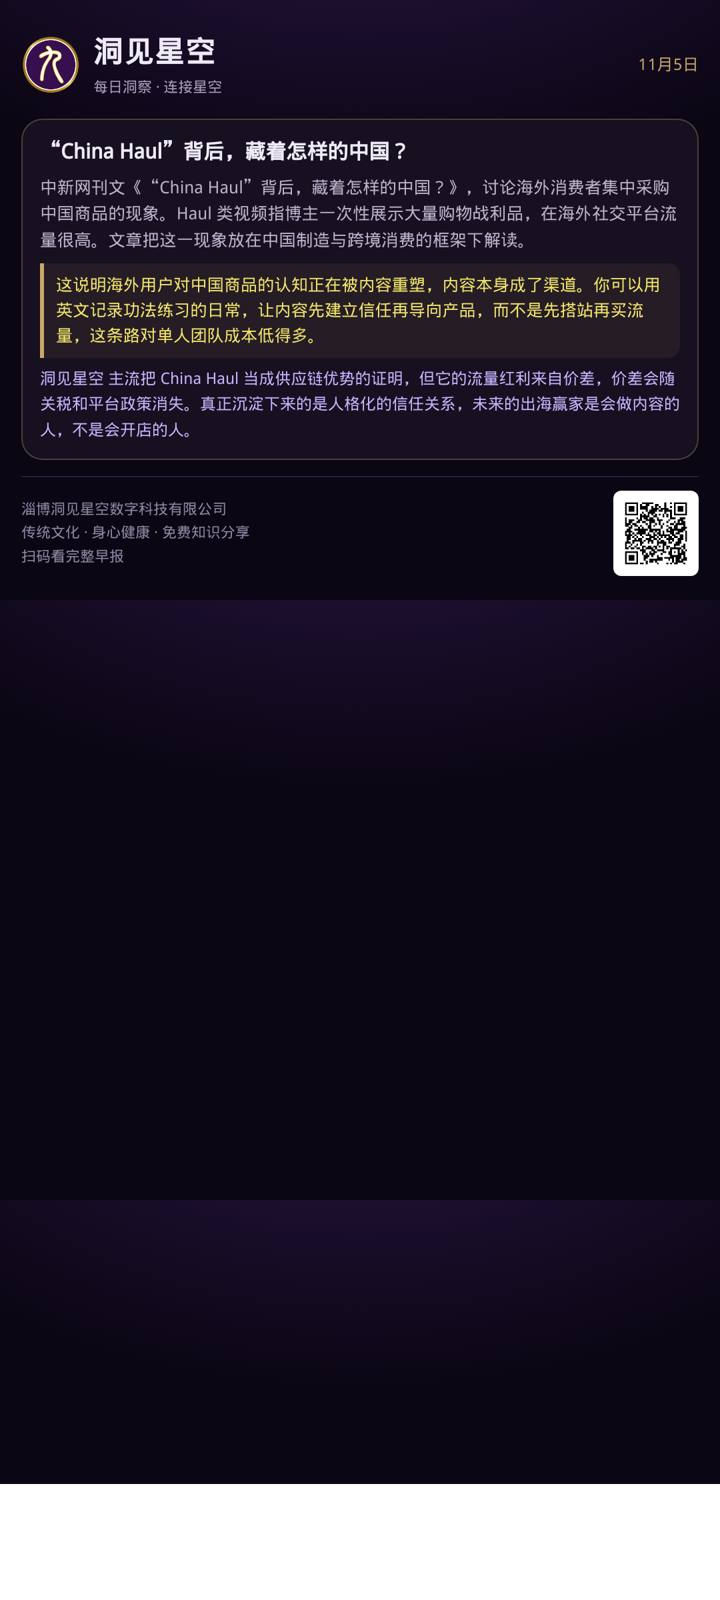
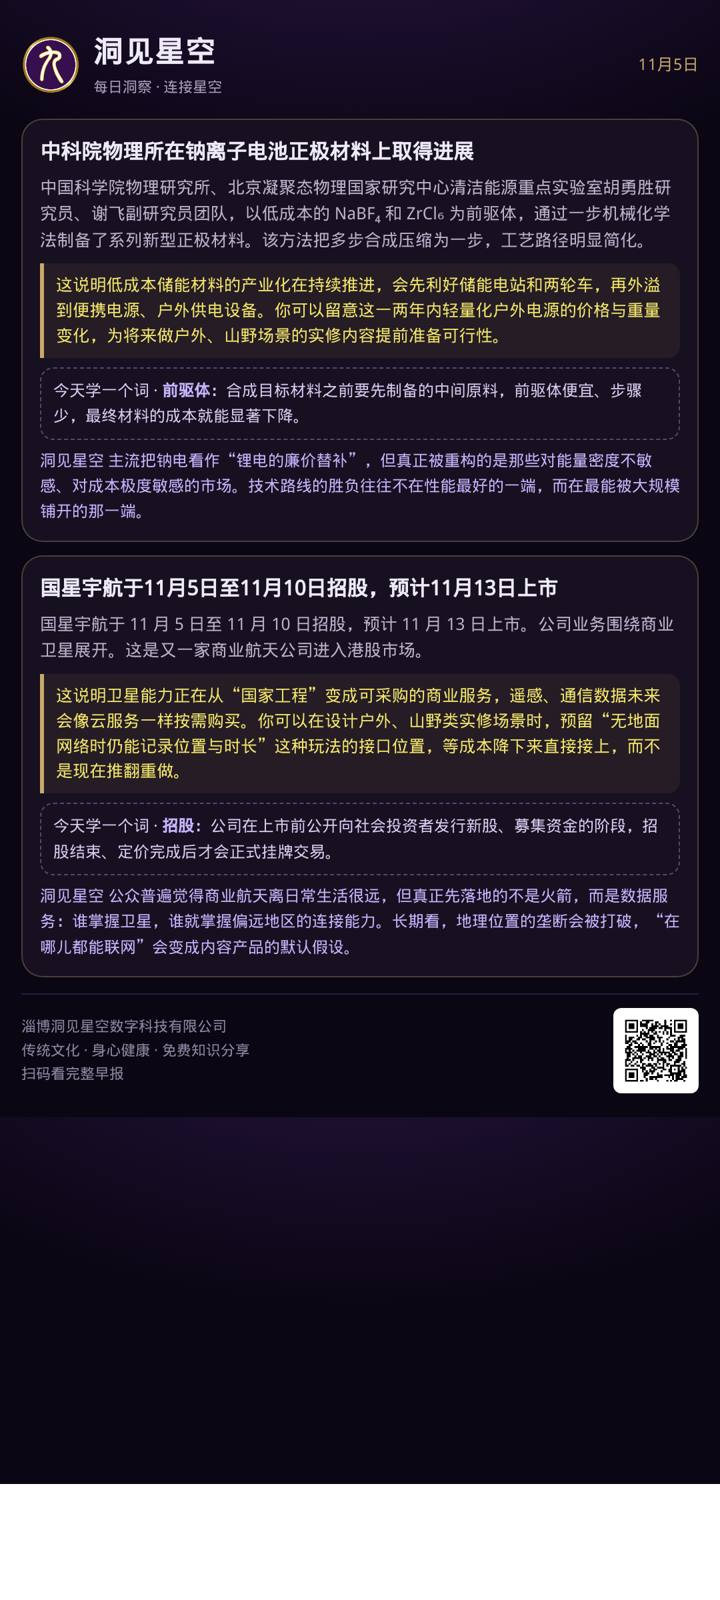
brief 2026-11-05

Changed region(s): [[0.0306, 0.0625, 0.9778, 0.6875], [0.825, 0.625, 0.9778, 0.6875], [0.4278, 0.6875, 0.55, 0.7188]]

diff --git a/2026-11-05.html b/2026-11-05.html
@@ -52,4 +52,4 @@ a{color:#b9a6ff;text-decoration:none}
 .teach{margin-top:10px;padding:10px 12px;border:1px dashed rgba(196,181,253,.35);border-radius:12px;font-size:13.5px;color:#d6ccf0}
 .teach b{color:var(--acc);font-weight:600}
 .foot{margin-top:44px;text-align:center;color:#5d5570;font-size:11px;letter-spacing:1.5px}
-</style></head><body><div class=grid></div><div class=wrap><div class=kicker>DONGJIAN · MORNING</div><div class=head><img class=logo src='logo.png' alt=logo><h1>洞见星空早报</h1></div><div class=sub>2026 年 11 月 5 日 · 星期四</div><h2>世界资讯 · 10</h2><div class=card><h3>OpenAI总裁称做好明年上市准备</h3><p>OpenAI 总裁公开表示公司已做好明年上市的准备。此前 OpenAI 长期依靠私募融资与战略投资支撑高强度投入。上市意味着其收入结构、亏损幅度与算力采购合同都要向公开市场披露。消息由新浪财经发出。</p><div class=why>这告诉你 AI 头部公司正从私募输血切换到公开市场定价，一旦上市，整个 AI 应用层的估值锚会被重新设定。你可以盯它披露的收入构成里订阅与 API 各占多少，判断资本市场认可的是工具型还是内容型产品，再决定自己下一块内容资产往哪边靠。</div><div class=teach>今天学一个词 · <b>资本开支（CapEx）</b>：公司买设备、建机房这类一次性大额投入，不直接算当期费用，而是分摊到以后几年。AI 公司烧钱主要就烧在这上面。</div><div class=insight><b>洞察</b> 主流把 OpenAI 上市当成 AI 泡沫的顶点信号，但更可能的分水岭是：上市之后 AI 从故事变成财报，被淘汰的不是没有技术的小团队，而是没有复购的产品。未来两年中文 AI 内容产品的定价会向订阅制收敛，一次性买断的高价课会越来越难卖。</div><div class=chips><a class='chip acc' href='https://finance.sina.com.cn/stock/usstock/c/2026-11-05/doc-inixryty5644886.shtml'>新浪财经</a></div></div><div class=card><h3>Sand.ai完成2亿美元A+轮融资，10个月累计3亿美元</h3><p>Sand.ai 宣布完成 2 亿美元 A+ 轮融资，这是公司 2026 年完成的第三轮融资。10 个月内累计融资额达到 3 亿美元，本轮融资后正式跻身独角兽行列。融资节奏在同赛道里属于极快的一档。</p><div class=why>这说明资本正在向少数 AI 团队高度集中，一年三轮、十个月三亿美元的节奏意味着行业进入烧钱换身位的阶段。个人创业者正面做模型不现实，但这些公司做不了的脏活——垂类数据整理、中文场景适配、内容审校——恰恰是最容易被外包或被收购的位置，你可以先接这类活建立关系。</div><div class=teach>今天学一个词 · <b>A+轮</b>：公司在 A 轮之后、B 轮之前加的一次融资，通常用来在估值上调前快速补钱，节奏比正常轮次快。</div><div class=insight><b>洞察</b> 主流认为融资额代表技术领先，但一年三轮更像是资本怕错过而不是看好，真实护城河在数据和工作流而不在参数。未来 12 个月会看到一批垂直行业的 AI 应用被大厂低价并购，独立做通用模型的小团队会加速出清。</div><div class=chips><a class='chip acc' href='https://wallstreetcn.com/livenews/3194682'>华尔街见闻</a></div></div><div class=card><h3>全球首款全尺寸超仿生机器人亮相，售价16.98万模样可定制</h3><p>全球首款全尺寸超仿生机器人公开亮相，售价 16.98 万元，模样可按客户需求定制。报道未披露具体交付时间与量产规模。16.98 万这个价位落在商用展陈与文旅采购的预算区间内，而不是工业产线的采购逻辑。</p><div class=why>这说明拟人机器人已经从展台样机走到明码标价，第一批买单的会是景区、展馆、康养机构而不是家庭。你可以关注机器人加传统文化展演这个组合，外观定制意味着外壳之下需要脚本、语音包和讲解词，这块内容供给目前几乎空白，是内容方最容易切进去的位置。</div><div class=teach>今天学一个词 · <b>超仿生</b>：指外形、表情、皮肤质感尽量接近真人，不只是关节能动，还包括面部微表情和体温这类细节。</div><div class=insight><b>洞察</b> 主流叙事是人形机器人进家庭，但短期内真正产生现金流的是 B 端的展陈与陪伴场景。定制外观这件事说明硬件会商品化，真正稀缺的是 IP 授权和内容包，未来这类公司的利润大头不在机器上。</div><div class=chips><a class='chip acc' href='https://finance.sina.com.cn/jjxw/2026-11-04/doc-inixqnsv7997130.shtml'>新浪科技</a></div></div><div class=card><h3>中科院物理所团队以低成本前驱体制备钠电材料</h3><p>中科院物理所、北京凝聚态物理国家研究中心清洁能源重点实验室胡勇胜研究员、谢飞副研究员团队，以低成本的 NaBF₄ 和 ZrCl₆ 为前驱体，通过一步机械化学法制备了系列材料。该路线强调前驱体易得与合成步骤少。这类研究通常瞄准储能和低速电动场景。</p><div class=why>这说明国内材料研发正在往低成本合成工艺上集中，而不是只比性能指标。硬科技科普的需求会同步上升，钠电、固态电池、储能这些词在中文短视频里已有稳定流量，且能接到品牌方的科普预算，比泛健康内容更容易谈商单。</div><div class=teach>今天学一个词 · <b>前驱体</b>：做材料时先合成出来的中间产物，后面的反应都以它为原料。前驱体便宜、稳定，最终产品成本才压得下来。</div><div class=insight><b>洞察</b> 主流把钠电说成锂电的替代者，它更可能是补充，真正的胜负手在低成本合成工艺而不是能量密度。未来两年被淘汰的会是只讲故事、没有工艺专利的材料公司。</div><div class=chips><a class='chip acc' href='https://wallstreetcn.com/livenews/3194670'>华尔街见闻</a></div></div><div class=card><h3>中国生物制药达成最高70亿美元对外授权，刷新国内BD纪录</h3><p>中国生物制药与勃林格殷格翰强化肿瘤领域战略合作，达成最高 70 亿美元的对外授权。这笔交易刷新了国内 BD 交易纪录，是本轮创新药出海里金额最高的一档。授权方保留部分区域权益。</p><div class=why>这说明中国创新药的出海方式已经从卖产品变成卖管线，交易撮合与跨境合规的人才变得稀缺。你可以留意医药 BD、海外授权谈判这类硬技能的知识付费需求，客单价和复购都远高于泛健康内容，而目前中文供给非常少。</div><div class=teach>今天学一个词 · <b>license-out（对外授权）</b>：把自己研发的药在海外市场的开发和销售权卖给外国药企，换首付款和后续里程碑分成。药还没上市就能先拿到钱。</div><div class=insight><b>洞察</b> 主流把 license-out 刷纪录当成产业升级的标志，但被买走的往往是早期管线，临床和商业化能力仍留在外资手里。未来两年会冒出一批专门做 BD 撮合的中介型公司，它们的价值现在被严重低估。</div><div class=chips><a class='chip acc' href='https://finance.sina.com.cn/tech/shenji/2026-11-05/doc-inixrumy8918859.shtml'>新浪科技</a></div></div><div class=card><h3>国星宇航11月5日起招股，预计11月13日上市</h3><p>国星宇航于 11 月 5 日至 11 月 10 日招股，预计 11 月 13 日上市。公司主营卫星研制与卫星数据服务，属于商业航天赛道。这是近期少有的商业航天公司赴港上市动作。</p><div class=why>这说明卫星数据正在从政府订单走向商业客户，遥感影像的民用接口会变得更便宜、更好调用。做地理、农业、文旅内容的人可以用卫星图做差异化素材，比如把某座山或某片湖的四季卫星影像做成内容，素材成本几乎为零。</div><div class=teach>今天学一个词 · <b>遥感</b>：卫星或飞机从上往下拍地面，得到影像和数据，可以用来数农作物面积、看河流变化、监测工地进度。</div><div class=insight><b>洞察</b> 主流把商业航天等同于可回收火箭和星链竞赛，但先上市的这类公司收入主要来自卫星应用和数据分销，不是发射。未来两年的竞争点在谁能把卫星数据卖给中小客户，而不是谁发射得多。</div><div class=chips><a class='chip acc' href='https://finance.sina.com.cn/stock/hkstock/ggipo/2026-11-05/doc-inixrunh9650279.shtml'>新浪财经</a></div></div><div class=card><h3>高盛：中期选举“蓝色海啸”将对人工智能监管产生重大影响</h3><p>高盛称美国中期选举出现蓝色海啸，将对人工智能监管产生重大影响。民主党在选举中的优势被视作监管趋严的前置信号。具体的立法节奏和监管范围目前仍未确定。</p><div class=why>这说明 AI 的合规成本正在从企业自选变成政治变量，一旦美国收紧，模型厂商会把合规压力通过接口条款传导给使用方。你可以把 AI 内容合规审查当成一个可做的方向，帮内容团队做发布前的合规体检，比做 AI 生成工具更容易收到钱。</div><div class=teach>今天学一个词 · <b>蓝色海啸（blue wave）</b>：美国政治术语，指民主党在同一场选举里大范围获胜。蓝色是民主党的代表色，海啸形容胜幅很大。</div><div class=insight><b>洞察</b> 主流认为更严的监管会压制 AI 估值，但历史上明确的规则反而利好头部、清退长尾。对个体创业者来说，监管不是成本，是别人进不来的门槛。</div><div class=chips><a class='chip acc' href='https://finance.sina.com.cn/stock/usstock/c/2026-11-05/doc-inixryuh6202664.shtml'>新浪财经</a></div></div><div class=card><h3>Arm季度营收展望符合预期，数据中心业务抵御手机市场低迷</h3><p>Arm 的季度营收展望符合市场预期，数据中心业务帮助它抵御了智能手机市场的低迷。公司在财报沟通中把数据中心列为增长主力。智能手机相关授权收入仍然承压。</p><div class=why>这说明算力需求的重心已经从手机转向机房，推理侧的真实需求在增长。你可以据此判断内容产品该往需要持续调用的形态走，比如个性化音频、语音陪练，而不是一次性交付的录播课，因为只有前者才有复购。</div><div class=teach>今天学一个词 · <b>推理（inference）</b>：模型训练好之后，每次回答问题、生成内容时运行的那一步。用户越多，推理消耗越大，成本主要看这里。</div><div class=insight><b>洞察</b> 主流把 Arm 当消费电子公司，但它的估值逻辑正在变成 AI 基础设施。未来三年推理芯片的竞争会比训练芯片更激烈，因为落地场景大多在端侧和边缘侧。</div><div class=chips><a class='chip acc' href='https://finance.sina.com.cn/stock/usstock/c/2026-11-05/doc-inixrqea8945717.shtml'>新浪科技</a></div></div><div class=card><h3>国风国潮服饰海外热销，外国消费者专程来中国抢货</h3><p>中新网报道，国风国潮服饰在海外热销，有外国消费者专程来中国抢货。报道称国风国潮正在圈粉全球，并被列为近期外贸热点之一。热销品类集中在带有传统纹样与形制的服装。</p><div class=why>这说明中国传统美学在海外已经形成真实购买力，不只是文化猎奇。你的功法内容可以走同一条路径，先用短视频和图文在海外平台积累观看，把练习音频和动作讲解做成可下载的数字产品，先有成交再谈规模化。</div><div class=teach>今天学一个词 · <b>国潮</b>：把中国传统元素，比如纹样、形制、色彩，用在现代商品设计上形成的消费风潮，近年在服饰、美妆、茶饮里最集中。</div><div class=insight><b>洞察</b> 主流认为文化出海靠官方叙事和大项目，但实际成交靠的是单品和审美。未来三年会跑出几个纯靠海外收入的中国传统品类品牌，规模都不大，但利润率和客户忠诚度远高于国内同类。</div><div class=chips><a class='chip acc' href='https://www.chinanews.com.cn/cj/2026/11-05/10726436.shtml'>中新网财经</a></div></div><div class=card><h3>“China Haul”背后，藏着怎样的中国？</h3><p>中新网刊文《“China Haul”背后，藏着怎样的中国？》，讨论海外消费者集中采购中国商品的现象。Haul 类视频指博主一次性展示大量购物战利品，在海外社交平台流量很高。文章把这一现象放在中国制造与跨境消费的框架下解读。</p><div class=why>这说明海外用户对中国商品的认知正在被内容重塑，内容本身成了渠道。你可以用英文记录功法练习的日常，让内容先建立信任再导向产品，而不是先搭站再买流量，这条路对单人团队成本低得多。</div><div class=teach>今天学一个词 · <b>Haul 视频</b>：博主把一次采购的商品全部摆出来逐件展示、试用的视频形式。因为真实、信息密度高，在海外平台转化率很高。</div><div class=insight><b>洞察</b> 主流把 China Haul 当成供应链优势的证明，但它的流量红利来自价差，价差会随关税和平台政策消失。真正沉淀下来的是人格化的信任关系，未来的出海赢家是会做内容的人，不是会开店的人。</div><div class=chips><a class='chip acc' href='https://www.chinanews.com.cn/cj/2026/11-05/10726442.shtml'>中新网财经</a></div></div><h2>科技 · 10</h2><div class=card><h3>天数智芯天垓300真机实测：Token成本直降40%</h3><p>天数智芯天垓 300 的真机实测结果显示，性能已赶超国际主流 GPU。在超节点架构下，有效 Token 成本直降 40%。这一数据来自公开的实测披露。</p><div class=why>这说明国产算力在推理侧的性价比已经跨过临界点，AI 应用的单次调用代价会继续下探。你可以观察这波成本下降会催生哪些高频交互加垂类内容的产品，优先学它们的交互设计，而不是自己从零构思产品形态。</div><div class=chips><a class='chip acc' href='https://finance.sina.com.cn/tech/it/2026-11-04/doc-inixqsyn9272244.shtml'>新浪科技</a></div></div><div class=card><h3>灵光2.0上线一周托管超116万项事务，用户突破2000万</h3><p>灵光 2.0 上线一周，托管事务超过 116 万项，用户规模突破 2000 万。托管类功能指用户把订票、提醒、比价这些具体事务交给 Agent 执行。产品增长主要来自事务型场景而非聊天。</p><div class=why>这说明用户愿意把办事交给 AI，而不只是聊天，付费意愿也集中在结果上。值得关注的是事务托管这个品类的收费结构，按次还是包月，哪一种在中文用户里跑得通，会直接决定一批小团队的产品设计。</div><div class=chips><a class='chip acc' href='https://finance.sina.com.cn/tech/shenji/2026-11-05/doc-inixryue9568010.shtml'>新浪科技</a></div></div><div class=card><h3>闲鱼CEO：Agent创造新模式，150万用户获得持续稳定收入</h3><p>闲鱼 CEO 谌伟业表示，Agent 为平台创造了新的交易模式和体验，已有 150 万用户通过平台获得持续稳定收入。闲鱼是二手商品与技能服务的撮合平台。Agent 主要承担定价、客服与上架这类重复动作。</p><div class=why>这说明一个人加一个 Agent 已经可以撑起一门小生意。你可以研究闲鱼上技能服务的供给形态，比如陪练、教学、咨询，看功法教学能不能做成被平台撮合的服务，而不是只靠自有渠道卖。</div><div class=chips><a class='chip acc' href='https://finance.sina.com.cn/tech/it/2026-11-04/doc-inixqsyv0040255.shtml'>新浪科技</a></div></div><div class=card><h3>360发布元认知模型，让AI从能生成走向可靠执行</h3><p>360 在乌镇峰会发布元认知模型，主打让 AI 从能生成走向可靠执行。所谓元认知，指模型对自身的推理过程进行监控和校正。发布会把可靠性而非生成质量作为主要卖点。</p><div class=why>这说明行业竞争的焦点正在从生成质量转向执行可靠性，用户不为生成付费，为结果付费。你可以据此判断内容产品的卖点该落在完成上，比如一套练习有没有做完、动作有没有到位，而不是内容时长和数量。</div><div class=chips><a class='chip acc' href='https://finance.sina.com.cn/tech/it/2026-11-04/doc-inixqnss6108904.shtml'>新浪科技</a></div></div><div class=card><h3>国行苹果AI首批接入得物，11月4日开放测试</h3><p>国行苹果 AI 的首批接入方中出现得物，于 11 月 4 日开放测试。首批合作场景集中在电商与消费决策类应用。国行版本的能力开放节奏明显慢于海外。</p><div class=why>这说明苹果 AI 的落地路径是接入具体 App 而不是一个通用入口，谁先进名单谁拿系统级曝光。你可以持续盯这份接入名单的变化，一旦向内容与健康类 App 开放，早期接入的获客成本会远低于买量。</div><div class=chips><a class='chip acc' href='https://finance.sina.com.cn/tech/it/2026-11-04/doc-inixqnsq9346336.shtml'>新浪科技</a></div></div><div class=card><h3>Meta启动欧元债券首次发行，此前美元债已筹150亿美元</h3><p>Meta 启动欧元债券的首次发行，此前已通过美元债筹集 150 亿美元。连续的大规模举债动作集中在 AI 相关的基础设施投入周期里。科技巨头通过债市为算力建设融资已成常态。</p><div class=why>这说明科技巨头的 AI 投入已经开始加杠杆，行业进入用债务换算力的阶段。这个周期里最先被挤压的是靠买量增长的公司，内容型产品的获客波动相对小，你可以据此判断自己该不该在这个时点大规模投流量。</div><div class=chips><a class='chip acc' href='https://finance.sina.com.cn/stock/usstock/c/2026-11-04/doc-inixqhks9393709.shtml'>新浪科技</a></div></div><div class=card><h3>字节新规限制员工使用外部AI，知情人士回应</h3><p>有消息称字节跳动出台新规，限制员工使用外部 AI 工具，知情人士对此作出回应。大厂对内部数据外流的担忧是这类规定的常见动因。此前多家头部公司已采取类似限制。</p><div class=why>这说明大厂的核心顾虑是数据与合规，需求会转向可私有化、可审计的 AI 工具。对个人来说，帮中小企业做 AI 使用规范和落地培训是当下就能接到的活，比做通用 AI 工具更容易收到第一笔钱。</div><div class=chips><a class='chip acc' href='https://finance.sina.com.cn/chanjing/gsnews/2026-11-04/doc-inixqxhk9235629.shtml'>新浪科技</a></div></div><div class=card><h3>QuestMobile：红果免费短剧9月月活4.3亿，同比增长81.8%</h3><p>QuestMobile 报告显示，9 月红果免费短剧的月活跃用户规模达到 4.3 亿，同比增长 81.8%。免费短剧以广告变现为主，单集时长通常在几分钟以内，靠连续钩子留住用户。</p><div class=why>这说明中文互联网最大的增量流量仍在免费、高频、强钩子的内容形态上。你可以研究它的单集结构，前几秒给什么、什么时候转折，把这套节奏用到功法内容的短视频拆条上，而不是只做长音频。</div><div class=chips><a class='chip acc' href='https://finance.sina.com.cn/tech/it/2026-11-04/doc-inixqnsv7985057.shtml'>新浪科技</a></div></div><div class=card><h3>华为子品牌“星芒”曝光：英文名OSTA，首款O1 Pro定位旗舰</h3><p>华为推出子品牌星芒，英文名为 OSTA，首款机型 O1 Pro 定位旗舰，采用阔直板形态。这是华为在主品牌之外新增的独立品牌线。新品牌通常承担细分人群和价格带的试探任务。</p><div class=why>这说明手机厂商仍在拆子品牌细分人群，新品牌冷启动期对内容合作方的报价通常更宽松。你可以留意这类新品牌的早期内容合作窗口，用比成熟平台低得多的成本拿到曝光。</div><div class=chips><a class='chip acc' href='https://finance.sina.com.cn/tech/roll/2026-11-04/doc-inixqhkx8071732.shtml'>新浪科技</a></div></div><div class=card><h3>李斌：智能驾驶的意义是解放精力减少事故，而非让司机丢工作</h3><p>蔚来李斌表示，智能驾驶最大的意义不应是让出租车、网约车司机丢掉工作，而是解放司机精力、减少交通事故。这一表态出现在自动驾驶商业化加速推进的背景下。同类表述在行业内正变得越来越常见。</p><div class=why>这说明 AI 产品的对外叙事正在从替代人转向增强人，因为替代叙事会直接招来监管和舆论阻力。这套框架做内容的人可以直接借用，讲增强身体能力而不是暗示治疗效果，既合规也更容易被接受。</div><div class=chips><a class='chip acc' href='https://finance.sina.com.cn/tech/shenji/2026-11-05/doc-inixrunk6238467.shtml'>新浪科技</a></div></div><h2>开源项目 · 10</h2><div class=card><div class=repo><div><div class=n><a href='https://github.com/Renhuai123/ziwei-doushu'>Renhuai123/ziwei-doushu</a></div><div class=d>紫微斗数开源排盘引擎，基于《天纪》体系，含完整排盘算法、四化系统、格局知识库和古籍原文数据。</div></div><div class=s>★ 15818</div></div><div class=repo><div><div class=n><a href='https://github.com/SylarLong/iztro'>SylarLong/iztro</a></div><div class=d>轻量级紫微斗数排盘库，提供生成星盘的工具接口，可直接嵌入网页或小程序。</div></div><div class=s>★ 4346</div></div><div class=repo><div><div class=n><a href='https://github.com/jangviktor-web/nihaixia'>jangviktor-web/nihaixia</a></div><div class=d>以倪海厦教学资料为基础的中医 Agent 技能，蒸馏伤寒论、金匮要略、黄帝内经、神农本草经、针灸篇，含六经辨证、八纲辨证与人纪医案思维。</div></div><div class=s>★ 3995</div></div><div class=repo><div><div class=n><a href='https://github.com/jinchenma94/bazi-skill'>jinchenma94/bazi-skill</a></div><div class=d>四柱八字命理分析的 Python 技能实现，可直接被 Agent 平台调用。</div></div><div class=s>★ 3800</div></div><div class=repo><div><div class=n><a href='https://github.com/DestinyLinker/MingLi-Bench'>DestinyLinker/MingLi-Bench</a></div><div class=d>评估大模型在中国传统命理（八字、紫微）任务上表现的基准数据集。</div></div><div class=s>★ 2552</div></div><div class=repo><div><div class=n><a href='https://github.com/6tail/lunar-javascript'>6tail/lunar-javascript</a></div><div class=d>日历库，支持公历、农历、佛历、道历，以及节气、节日、干支、生肖、每日宜忌等。</div></div><div class=s>★ 1736</div></div><div class=repo><div><div class=n><a href='https://github.com/FANzR-arch/Numerologist_skills'>FANzR-arch/Numerologist_skills</a></div><div class=d>一个针对中国术数领域给大模型去幻觉的工程框架，用约束与校验防止模型乱编。</div></div><div class=s>★ 1567</div></div></div><div class=card><div class=repo><div class=n style='color:#c9a86a'>热门 · 不限分类</div></div><div class=repo><div><div class=n><a href='https://github.com/cirosantilli/x86-bare-metal-examples'>cirosantilli/x86-bare-metal-examples</a></div><div class=d>几十个最小可运行的 x86 裸机操作系统示例，用于学习底层系统编程，全部经过实测。</div></div><div class=s>★ 5434</div></div><div class=repo><div><div class=n><a href='https://github.com/gege-circle/.github'>gege-circle/.github</a></div><div class=d>一个以动漫、游戏、科技、人文、生活为话题的社区仓库，用于圈子成员交流。</div></div><div class=s>★ 2079</div></div><div class=repo><div><div class=n><a href='https://github.com/OCNYang/QBox'>OCNYang/QBox</a></div><div class=d>基于 RxJava、Retrofit、Okhttp、Glide 的练手 App，把新闻、笑话等多个小模块聚合在一个入口里。</div></div><div class=s>★ 1383</div></div></div><div class=foot>洞见星空 · 仅供学习交流，不构成投资建议</div></div></body></html>
+</style></head><body><div class=grid></div><div class=wrap><div class=kicker>DONGJIAN · MORNING</div><div class=head><img class=logo src='logo.png' alt=logo><h1>洞见星空早报</h1></div><div class=sub>2026 年 11 月 5 日 · 星期四</div><h2>世界资讯 · 10</h2><div class=card><h3>OpenAI总裁称做好明年上市准备</h3><p>据新浪财经报道，OpenAI 总裁公开表示公司已经为明年上市做好准备。这是 OpenAI 高层首次就上市时间表给出相对明确的表态。此前 OpenAI 长期以非营利母体加有限营利子公司的架构运作，估值主要靠一级市场融资推高。消息出炉当日，市场对 AI 板块的定价讨论明显升温。</p><div class=why>大模型头部公司进入上市节奏，说明这一轮竞争已经从“谁的模型更强”转向“谁能把算力变成可持续的季度收入”，企业级合约会成为争夺重点。对单人创业者来说，面向个人的轻量工具会越来越标准化、越来越容易被替换，你该押注的是模型替代不了的部分：具体功法的纠错、师承来源和学员关系。</div><div class=teach>今天学一个词 · <b>IPO</b>：公司第一次把股票卖给公众，之后要在交易所挂牌、按季度公开财务数据。上市意味着它要对股东负责，而不只是对创始人和投资机构负责。</div><div class=insight><b>洞察</b> 主流叙事把头部 AI 公司上市当成泡沫见顶的信号，但更可能的长期含义是：AI 行业的定价权从“讲故事的一级市场”转移到“看财报的二级市场”，产品会更快涨价、更快收紧免费额度、更偏向能付得起钱的企业客户。个体创业者要习惯“工具条款半年一变”的常态。</div><div class=chips><a class='chip acc' href='https://finance.sina.com.cn/stock/usstock/c/2026-11-05/doc-inixryty5644886.shtml'>新浪财经</a></div></div><div class=card><h3>高盛称美国中期选举“蓝色海啸”将对人工智能监管产生重大影响</h3><p>高盛发布观点称，美国中期选举中出现的“蓝色海啸”将对人工智能监管走向产生重大影响。所谓蓝色海啸，指民主党在选举中获得压倒性优势。高盛认为立法与监管口径的变化会直接改变 AI 公司的合规成本与业务边界。市场正在重新评估监管风险在 AI 板块中的权重。</p><div class=why>美国监管口径趋严，会同时抬高两件事的价值：一是开源模型与本地部署方案，二是“可审计、可解释”的 AI 产品。你可以优先选能在本地或国内云上跑的工具链，把关键流程留一份不依赖单一海外服务的备份路径。</div><div class=teach>今天学一个词 · <b>蓝色海啸</b>：美国政治里蓝色代表民主党、红色代表共和党。“蓝色海啸”是媒体说法，指民主党在一场选举里赢得幅度大到像海啸一样。</div><div class=insight><b>洞察</b> 多数人默认“监管等于利空 AI”，但历史上强监管往往抬高合规门槛、利好大厂、挤出小玩家，同时把开源生态推到台前。真正的长期变化不是 AI 变慢，而是 AI 的权力结构更集中、合规本身变成一门生意。</div><div class=chips><a class='chip acc' href='https://finance.sina.com.cn/stock/usstock/c/2026-11-05/doc-inixryuh6202664.shtml'>新浪财经</a></div></div><div class=card><h3>全球首款全尺寸超仿生机器人亮相：售价16.98万，模样可定制</h3><p>新浪科技报道，全球首款全尺寸超仿生机器人亮相，售价 16.98 万元，外观模样可以定制。产品主打拟人外形与个性化形象，而非工业作业能力。这一价位把它放在商用展陈和高端陪伴的市场区间。</p><div class=why>这说明“形象、动作、语音脚本”的可定制内容正在成为机器人产品的卖点，而这类内容目前极度稀缺。你可以把自己的功法动作拆成标准的“动作包、讲解脚本、口令音频”，做成可授权给硬件厂商的内容模块，这是一条与录课卖课完全不同的收入路径。</div><div class=teach>今天学一个词 · <b>超仿生</b>：指外观、皮肤质感、面部表情对真人的模仿程度非常高，站远了看几乎分不出真假，和“能干活”是两码事。</div><div class=insight><b>洞察</b> 主流说法是“人形机器人即将走进家庭”，但 16.98 万的定价和展示型定位说明，短期内它更像展陈道具和 IP 载体。真正先起来的不是机器人干活，而是机器人“扮演谁”，也就是内容授权与形象授权。</div><div class=chips><a class='chip acc' href='https://finance.sina.com.cn/jjxw/2026-11-04/doc-inixqnsv7997130.shtml'>新浪科技</a></div></div><div class=card><h3>河北出台一揽子措施支持OPC创新发展</h3><p>中新网 11 月 5 日报道，河北出台一揽子措施支持 OPC 创新发展。OPC 即“一人公司”，指由一个自然人出资设立的公司形态。这是地方层面对单人创业主体给出的专项政策支持信号。</p><div class=why>这说明单人公司正在被当成一种正式的市场主体来对待，而不是过渡形态，围绕它的注册、财税、法务服务会形成一条新供应链。你可以去核对淄博本地以及河北这类先行地区对一人公司的具体扶持条款，看有没有内容产业、文创方向的申报窗口，这属于一次性查证、长期受益的动作。</div><div class=teach>今天学一个词 · <b>OPC（一人公司）</b>：One Person Company 的缩写，指股东只有一个自然人的公司。它和个体户不同，是有限责任公司，出了事一般只以出资额为限承担责任。</div><div class=insight><b>洞察</b> 主流的创业叙事仍然默认“招人、融资、做大”，但政策口径已经把一人公司纳入扶持对象，意味着未来几年会出现一批专门服务个体的基础设施：代记账、合规模板、AI 法务。真正被重构的不是创业门槛，而是“公司”这个概念本身。</div><div class=chips><a class='chip acc' href='https://www.chinanews.com.cn/cj/2026/11-05/10726400.shtml'>中新网财经</a></div></div><div class=card><h3>达成最高70亿美元对外授权，中生制药刷新BD交易记录</h3><p>新浪科技报道，中国生物制药达成最高 70 亿美元的对外授权交易，刷新国内 BD 交易纪录。交易对手方为勃林格殷格翰，双方在肿瘤领域强化战略合作。同日中国生物制药港股早盘涨超 5%。</p><div class=why>这说明“把一套方法或配方打包授权给更有渠道的一方”这条路在中国已经跑通，而且能卖出远高于零售的价格。传统文化领域同样可以试：把自己的功法体系、纠偏标准、教学大纲整理成可授权的 IP 包，谈给健身房、康养机构、内容平台，而不是只靠自己一节一节课去卖。</div><div class=teach>今天学一个词 · <b>BD / License-out</b>：BD 是商务拓展，License-out 指把自己产品的海外或特定权益授权给别人开发销售，收一笔首付款，之后按进展再收里程碑款和分成。</div><div class=insight><b>洞察</b> 媒体喜欢用 70 亿美元这样的标题数字，但对外授权通常是“首付款加里程碑付款”的结构，真正落袋的钱和标题差一个数量级。长期看，中国资产的定价权正在从“自己卖产品”转向“把权益卖给全球渠道”，这个逻辑对所有内容型 IP 都成立。</div><div class=chips><a class='chip acc' href='https://finance.sina.com.cn/tech/shenji/2026-11-05/doc-inixrumy8918859.shtml'>新浪科技</a></div></div><div class=card><h3>圈粉全球！国风国潮服饰海外热销，老外专程来抢货</h3><p>中新网报道，国风国潮服饰在海外热销，有外国消费者专程来中国抢货。报道把这一现象与近期海外的“China Haul”热潮并列观察。国潮服饰正在成为出口中的新增长品类之一。</p><div class=why>这说明海外对中国传统美学的需求，集中在“可穿戴、可拍照、可传播”的形态上，而不是长篇讲解。你可以顺势把功法内容往“视觉化、无语言门槛”的方向改：一个动作、一身衣服、一个场景，十几秒就能看懂，先解决传播再谈付费。</div><div class=teach>今天学一个词 · <b>国潮</b>：把中国传统纹样、形制、色彩做成现代商品和设计的风潮，核心卖点不是“古老”，而是“古老元素加现代使用场景”。</div><div class=insight><b>洞察</b> 大家习惯认为文化出海要靠大制作、靠官方渠道，但真正先跑出去的是衣服、饰品、器物这些可以被穿在身上、拍进照片的符号。符号的生命周期很短，靠单品爆红不可持续，能长期立住的是持续输出内容的那个人，而不是那一件衣服。</div><div class=chips><a class='chip acc' href='https://www.chinanews.com.cn/cj/2026/11-05/10726436.shtml'>中新网财经</a></div></div><div class=card><h3>“China Haul”背后，藏着怎样的中国？</h3><p>中新网刊文《“China Haul”背后，藏着怎样的中国？》，讨论海外消费者大量采购中国商品并在社交平台晒单的现象。文章认为这股热潮背后不只是价格，还有中国供应链与生活方式内容的同步输出。海外年轻人正把中国商品当成一种生活方式的符号。</p><div class=why>这说明海外平台对“中国人真实日常生活”的内容有持续需求，而且是生活流而不是教学流。你可以把练功、节气起居、饮食这类日常拍成系列短片，用生活记录的方式触达海外受众，比一上来就讲功法原理更容易被看懂和转发。</div><div class=teach>今天学一个词 · <b>Haul</b>：海外社交平台上的“扫货、开箱”视频类型，博主展示自己一次买了哪些东西、花了多少钱、值不值，常见于美妆和服饰。</div><div class=insight><b>洞察</b> 主流解读把 China Haul 归因于“性价比”，但性价比买不出狂热。真正被消费的是一整套生活想象，这也意味着它的天花板取决于内容能否持续供给。谁能在海外稳定输出“中国人怎么过日子”，谁就掌握了这个符号的解释权。</div><div class=chips><a class='chip acc' href='https://www.chinanews.com.cn/cj/2026/11-05/10726442.shtml'>中新网财经</a></div></div><div class=card><h3>QuestMobile报告：9月红果免费短剧月活跃用户规模达4.3亿，同比增长81.8%</h3><p>QuestMobile 报告显示，9 月红果免费短剧月活跃用户规模达到 4.3 亿，同比增长 81.8%。免费短剧成为过去一年增长最快的内容形态之一。同一份报告显示，腾讯以 12.8 亿用户蝉联中国互联网第一，绿泡泡月活破 1.5 亿。</p><div class=why>这说明用户对“一分钟内给出情绪或结果”的耐受度已经成为默认标准，超过三分钟还没有钩子的内容会被直接划走。你可以把 34 天挑战的每一天做成 60 秒竖屏单元：一个动作加一句话，用短剧的节奏承载功法内容，而不是依赖长音频。</div><div class=teach>今天学一个词 · <b>MAU（月活跃用户）</b>：一个月内打开过这个产品至少一次的用户数，用来衡量真实有多少人在用，比累计注册用户更能说明问题。</div><div class=insight><b>洞察</b> 很多人把短剧当成下沉娱乐，但 4.3 亿意味着它已经重塑了全年龄段的注意力节奏。长期看，所有内容都要先通过“三秒留人”这一关，教育类、修行类内容也不例外。真正的稀缺不是深度，而是能把深度压缩进短时长的能力。</div><div class=chips><a class='chip acc' href='https://finance.sina.com.cn/tech/it/2026-11-04/doc-inixqnsv7985057.shtml'>新浪科技</a></div></div><div class=card><h3>中科院物理所在钠离子电池正极材料上取得进展</h3><p>中国科学院物理研究所、北京凝聚态物理国家研究中心清洁能源重点实验室胡勇胜研究员、谢飞副研究员团队，以低成本的 NaBF₄ 和 ZrCl₆ 为前驱体，通过一步机械化学法制备了系列新型正极材料。该方法把多步合成压缩为一步，工艺路径明显简化。</p><div class=why>这说明低成本储能材料的产业化在持续推进，会先利好储能电站和两轮车，再外溢到便携电源、户外供电设备。你可以留意这一两年内轻量化户外电源的价格与重量变化，为将来做户外、山野场景的实修内容提前准备可行性。</div><div class=teach>今天学一个词 · <b>前驱体</b>：合成目标材料之前要先制备的中间原料，前驱体便宜、步骤少，最终材料的成本就能显著下降。</div><div class=insight><b>洞察</b> 主流把钠电看作“锂电的廉价替补”，但真正被重构的是那些对能量密度不敏感、对成本极度敏感的市场。技术路线的胜负往往不在性能最好的一端，而在最能被大规模铺开的那一端。</div><div class=chips><a class='chip acc' href='https://wallstreetcn.com/livenews/3194670'>华尔街见闻</a></div></div><div class=card><h3>国星宇航于11月5日至11月10日招股，预计11月13日上市</h3><p>国星宇航于 11 月 5 日至 11 月 10 日招股，预计 11 月 13 日上市。公司业务围绕商业卫星展开。这是又一家商业航天公司进入港股市场。</p><div class=why>这说明卫星能力正在从“国家工程”变成可采购的商业服务，遥感、通信数据未来会像云服务一样按需购买。你可以在设计户外、山野类实修场景时，预留“无地面网络时仍能记录位置与时长”这种玩法的接口位置，等成本降下来直接接上，而不是现在推翻重做。</div><div class=teach>今天学一个词 · <b>招股</b>：公司在上市前公开向社会投资者发行新股、募集资金的阶段，招股结束、定价完成后才会正式挂牌交易。</div><div class=insight><b>洞察</b> 公众普遍觉得商业航天离日常生活很远，但真正先落地的不是火箭，而是数据服务：谁掌握卫星，谁就掌握偏远地区的连接能力。长期看，地理位置的垄断会被打破，“在哪儿都能联网”会变成内容产品的默认假设。</div><div class=chips><a class='chip acc' href='https://finance.sina.com.cn/stock/hkstock/ggipo/2026-11-05/doc-inixrunh9650279.shtml'>新浪财经</a></div></div><h2>科技 · 9</h2><div class=card><h3>灵光2.0上线一周托管超116万项事务，用户突破2000万</h3><p>新浪科技报道，灵光 2.0 上线一周托管事务超过 116 万项，用户突破 2000 万。所谓“托管事务”，指用户把原本要自己动手做的事交给 AI 代理去执行。一周之内就沉淀出百万量级的真实执行数据。</p><div class=why>这说明通用型 AI 助手已经在大量承担“提醒、记录、统计、整理”这类事务性工作，这类功能会迅速变成免费标配。你要把力气放在 AI 判断不了的地方：动作做得对不对、身体反馈是否正常、什么时候该减量，这些才是需要专业经验的部分。</div><div class=teach>今天学一个词 · <b>托管事务</b>：不只是让 AI 给建议，而是把整件事交给它去执行，比如自动改期、自动填表、自动跟进，做完再给你结果。</div><div class=insight><b>洞察</b> 大多数人把 Agent 理解为“更聪明的聊天框”，但托管事务的量级说明竞争点已经变成“能不能可靠地把事做完”。可靠性的背后是权限、可回溯和出错兜底，这三样在未来一年会成为 AI 产品真正的分水岭。</div><div class=chips><a class='chip acc' href='https://finance.sina.com.cn/tech/shenji/2026-11-05/doc-inixryue9568010.shtml'>新浪科技</a></div></div><div class=card><h3>天数智芯天垓300真机实测：性能赶超国际主流GPU，超节点有效Token成本直降40%</h3><p>新浪科技报道，天数智芯天垓 300 完成真机实测，性能赶超国际主流 GPU，采用超节点方案后有效 Token 成本直降 40%。这是国产算力在推理侧的一次公开对比测试。测试重点是集群整体的有效吞吐，而不只是单卡跑分。</p><div class=why>这说明推理算力正在快速变便宜，实时动作识别、姿态比对这类重计算能力会在一年内进入可商用区间。你现在最该做的是攒数据：把标准动作的正面、侧面、常见错误姿势拍成结构化素材，等能力便宜了直接训练，而不是等工具成熟了再补素材。</div><div class=teach>今天学一个词 · <b>超节点</b>：把成百上千张加速卡用高速网络连成一台“超级电脑”来用，减少卡与卡之间的等待，整体效率比单卡堆叠高很多。</div><div class=insight><b>洞察</b> 主流把国产芯片的叙事锁定在“替代”，但超节点这类集群思路说明，追赶路径可能不是单卡追平，而是用系统架构换单点差距。如果这条路走通，算力的竞争会从“谁的芯片强”变成“谁的网络和调度强”。</div><div class=chips><a class='chip acc' href='https://finance.sina.com.cn/tech/it/2026-11-04/doc-inixqsyn9272244.shtml'>新浪科技</a></div></div><div class=card><h3>闲鱼CEO谌伟业：Agent创造新模式新体验，150万用户获得持续稳定收入</h3><p>闲鱼 CEO 谌伟业表示，Agent 创造了新的模式和新的体验，平台上有 150 万用户获得了持续稳定收入。这一数字把 AI 代理能力与个体创收直接挂钩。平台侧的表述强调“新体验”，而非单纯的效率工具。</p><div class=why>这说明“一技之长加 AI 代运营”已经能在平台上换成稳定现金流，门槛不在技术而在交付标准。你可以把功法教学拆成可单次交付的小服务——纠正一个动作、点评一次练习记录、给一份三天的调整建议——挂到有 Agent 撮合能力的平台上试水，比先做完整课程更快验证需求。</div><div class=teach>今天学一个词 · <b>Agent（智能体）</b>：能自己拆解任务、调用工具、一步步把事做完的 AI，不只是回答问题，还会主动去执行和跟进。</div><div class=insight><b>洞察</b> “AI 让人失业”是最流行的说法，但平台数据指向相反方向：AI 降低的是服务交付的门槛，让原本只能靠机构提供的专业服务，变成个人可以接单的小颗粒商品。长期看，被挤压的不是个体，而是中间层的中介机构。</div><div class=chips><a class='chip acc' href='https://finance.sina.com.cn/tech/it/2026-11-04/doc-inixqsyv0040255.shtml'>新浪科技</a></div></div><div class=card><h3>Sand.ai宣布完成2亿美元A+轮融资，10个月累计融资3亿美元</h3><p>Sand.ai 宣布完成 2 亿美元 A+ 轮融资，这是公司 2026 年内完成的第三轮融资。10 个月内累计融资额达到 3 亿美元，本轮融资后正式跻身独角兽行列。融资节奏在当下的资本环境中相当少见。</p><div class=why>这说明视频生成赛道的钱还在密集下注，资本押注的不是“能生成视频”，而是“生成的结果能直接用于商业交付”，也就是一致性和可控性。你可以先不等工具成熟：用手工拍摄为主、AI 只做补帧和背景替换，保住内容的真实质感，等可控性上来了再扩大使用比例。</div><div class=teach>今天学一个词 · <b>独角兽</b>：估值超过 10 亿美元的未上市公司，通常是投资圈的通俗说法，并不代表公司已经盈利或上市。</div><div class=insight><b>洞察</b> 外界普遍认为 AI 视频的创业窗口已经关闭，但十个月三轮融资说明离“能用”还有明显距离，否则不需要这么多钱。真正的护城河不在模型，而在谁能定义“合格交付”的标准——分辨率、时长、还是叙事连贯性。</div><div class=chips><a class='chip acc' href='https://wallstreetcn.com/livenews/3194682'>华尔街见闻</a></div></div><div class=card><h3>Arm季度营收展望符合预期，数据中心业务助其抵御智能手机市场低迷</h3><p>Arm 给出的季度营收展望符合市场预期，数据中心业务帮助它抵御了智能手机市场的低迷。Arm 的商业模式是授权芯片架构，收入与客户芯片出货量挂钩。数据中心需求成为这一季度的重要支撑项。</p><div class=why>这说明算力扩张的重心已经从手机转向服务器，连只做架构授权的上游公司都在被 AI 服务器重新定价。你可以在产品设计上默认“联网加云端推理是常态”，把需要重算力的功能放在服务端，而不是逼着用户在手机上跑。</div><div class=teach>今天学一个词 · <b>IP授权</b>：公司不自己造芯片，而是把设计方案的使用权卖给芯片厂商，按出货量收授权费，属于“卖图纸”的生意。</div><div class=insight><b>洞察</b> 大家习惯性认为消费电子决定芯片公司的命运，但这一季的数据说明服务器侧的需求已经能对冲手机的下滑。长期看，芯片产业的景气周期会和“数据中心建设周期”绑得越来越紧，而不是和换机潮绑在一起。</div><div class=chips><a class='chip acc' href='https://finance.sina.com.cn/stock/usstock/c/2026-11-05/doc-inixrqea8945717.shtml'>新浪科技</a></div></div><div class=card><h3>国行苹果AI首批接入得物，11月4日开放测试</h3><p>国行苹果 AI 首批接入得物，于 11 月 4 日开放测试。这意味着 Apple Intelligence 在国内以与具体 App 合作的方式落地。系统级 AI 直接调用第三方应用的能力，成为这次测试的核心看点。</p><div class=why>这说明未来用户可能不再“打开某个 App”，而是直接对手机说一句话让系统去调。你要提前把核心内容做成可被系统读取的结构化数据——动作名称、标准时长、要点、禁忌——而不只是做给人看的页面，否则在系统级入口里根本没有你的位置。</div><div class=teach>今天学一个词 · <b>系统级AI</b>：手机操作系统自带的 AI，能直接调用各个 App 的功能来完成任务，用户不用自己一个个打开应用。</div><div class=insight><b>洞察</b> 大家把 AI 手机当作硬件升级，但真正的变化是入口迁移：从图标和搜索框，迁移到一句话指令。一旦入口变了，过去十年靠 App 图标和推送建立的用户习惯会大面积失效，受益的是内容结构化做得早的人。</div><div class=chips><a class='chip acc' href='https://finance.sina.com.cn/tech/it/2026-11-04/doc-inixqnsq9346336.shtml'>新浪科技</a></div></div><div class=card><h3>字节新规限制员工使用外部AI，知情人士回应</h3><p>新浪科技报道，字节跳动出台新规限制员工使用外部 AI 工具，知情人士对此作出回应。此前已有多家大型互联网公司对内外部 AI 工具的使用划出明确边界。争议焦点集中在内部数据是否会经由外部工具外流。</p><div class=why>这说明“数据不出域”正在从合规要求变成采购硬门槛，企业宁可牺牲一点效率也不愿冒数据外流的风险。你做内容时如果会接触用户的练习记录、身体反馈这类数据，提前把存储位置、使用范围、删除方式写清楚，将来和机构谈合作时这就是现成的加分项。</div><div class=teach>今天学一个词 · <b>数据不出域</b>：数据始终留在自己控制的服务器范围内，不会被传到第三方那里去处理，是企业和机构采购 AI 时最看重的条件之一。</div><div class=insight><b>洞察</b> 外界默认 AI 工具会越来越开放，但大厂的动作说明相反：模型能力越强，数据边界划得越死。长期看，AI 行业会分裂成“公网版”和“私有部署版”两个市场，后者更贵、更慢，但更稳。</div><div class=chips><a class='chip acc' href='https://finance.sina.com.cn/chanjing/gsnews/2026-11-04/doc-inixqxhk9235629.shtml'>新浪科技</a></div></div><div class=card><h3>Meta启动欧元债券首次发行，此前发行美元债筹集150亿美元</h3><p>Meta 启动欧元债券的首次发行，此前已通过美元债券筹集 150 亿美元。公司称募集资金用于一般公司用途。市场普遍将其与数据中心和 AI 基础设施的巨额投入联系起来。</p><div class=why>这说明连现金流最强的公司都在靠发债支撑 AI 基建，算力供给在未来两三年会持续过剩。你可以把“AI 能力越来越便宜、越来越普及”当作产品设计的前提，把成本和精力都放在内容质量与人的关系上，而不是押注某项 AI 功能带来的先发优势。</div><div class=teach>今天学一个词 · <b>资本开支（CapEx）</b>：企业花在买设备、建机房、铺网络这类长期资产上的钱，一次投入大、回本周期长，和日常运营开销不是一回事。</div><div class=insight><b>洞察</b> 主流叙事是“AI 投入靠巨头自有现金流撑着”，但债券市场的动作说明这一轮资本开支已经超出经营现金流能覆盖的节奏。用债务堆出来的算力，最终要用收入来还，这会逼着所有玩家在未来两年把 AI 从“炫技”变成“收费”。</div><div class=chips><a class='chip acc' href='https://finance.sina.com.cn/stock/usstock/c/2026-11-04/doc-inixqhks9393709.shtml'>新浪科技</a></div></div><div class=card><h3>李斌乌镇演讲：AI应该让人的工作更轻松更安全，而不是剥夺人类存在的意义</h3><p>蔚来李斌在乌镇峰会上表示，AI 应该让人的工作更轻松、更安全，而不是剥夺人类存在的意义。同日他还谈到，智能驾驶最大的意义不应是让出租车、网约车司机丢掉工作，而是解放司机精力、减少交通事故。这番表态把技术价值从效率转向了人的处境。</p><div class=why>这说明“技术为人服务”正在成为企业公开表达的主流话语，纯效率叙事已经遇到明显的舆论反弹。你做传统文化内容时，把“练完之后身体感受如何、睡得怎么样”作为核心衡量指标来讲，会比强调功能、强调 AI 加持更贴合当下用户的心理预期。</div><div class=teach>今天学一个词 · <b>智能驾驶</b>：车辆自己完成一部分或全部驾驶操作，按自动化程度分级，级别越高需要人接管的次数越少，但责任划分也越复杂。</div><div class=insight><b>洞察</b> 过去十年科技行业的默认叙事是“更快更省人”，企业家如今公开谈“意义”，说明市场教育已经撞上反弹。长期看，能卖出溢价的产品会从“帮你省时间”转向“帮你确认自己在做什么”，这对慢生意是利好。</div><div class=chips><a class='chip acc' href='https://finance.sina.com.cn/tech/it/2026-11-04/doc-inixqnss6118846.shtml'>新浪科技</a></div></div><h2>开源项目 · 10</h2><div class=card><div class=repo><div><div class=n><a href='https://github.com/Renhuai123/ziwei-doushu'>Renhuai123/ziwei-doushu</a></div><div class=d>紫微斗数开源排盘引擎，基于倪海厦《天纪》体系，含完整排盘算法、四化系统、格局知识库与古籍原文数据。</div></div><div class=s>★ 15820</div></div><div class=repo><div><div class=n><a href='https://github.com/SylarLong/iztro'>SylarLong/iztro</a></div><div class=d>轻量级紫微斗数排盘工具库，供开发者在自己的项目里直接调用。</div></div><div class=s>★ 4346</div></div><div class=repo><div><div class=n><a href='https://github.com/jangviktor-web/nihaixia'>jangviktor-web/nihaixia</a></div><div class=d>倪海厦视角的中医 Agent Skill，基于其教学资料蒸馏伤寒论、金匮要略、黄帝内经、神农本草经、针灸篇等，含六经辨证、八纲辨证等思维框架。</div></div><div class=s>★ 3995</div></div><div class=repo><div><div class=n><a href='https://github.com/jinchenma94/bazi-skill'>jinchenma94/bazi-skill</a></div><div class=d>四柱八字命理分析的 AI Skill 实现，用 Python 写成。</div></div><div class=s>★ 3800</div></div><div class=repo><div><div class=n><a href='https://github.com/DestinyLinker/MingLi-Bench'>DestinyLinker/MingLi-Bench</a></div><div class=d>评估大模型在中国传统命理（八字、紫微）上表现的基准测试集。</div></div><div class=s>★ 2552</div></div><div class=repo><div><div class=n><a href='https://github.com/6tail/lunar-javascript'>6tail/lunar-javascript</a></div><div class=d>日历与历法工具库，支持公历、农历、佛历、道历，以及节气、干支、生肖、每日宜忌等。</div></div><div class=s>★ 1736</div></div><div class=repo><div><div class=n><a href='https://github.com/FANzR-arch/Numerologist_skills'>FANzR-arch/Numerologist_skills</a></div><div class=d>用工程框架约束大模型在中国命理领域幻觉的项目，作者自述是“给赛博半仙戴上紧箍咒”。</div></div><div class=s>★ 1567</div></div></div><div class=card><div class=repo><div class=n style='color:#c9a86a'>热门 · 不限分类</div></div><div class=repo><div><div class=n><a href='https://github.com/cirosantilli/x86-bare-metal-examples'>cirosantilli/x86-bare-metal-examples</a></div><div class=d>几十个最小可运行的操作系统示例，用来学习 x86 系统编程，每个例子都尽量精简可跑。</div></div><div class=s>★ 5434</div></div><div class=repo><div><div class=n><a href='https://github.com/gege-circle/.github'>gege-circle/.github</a></div><div class=d>一个以仓库为载体的多话题交流社区，讨论动漫、游戏、科技、人文、生活等。</div></div><div class=s>★ 2079</div></div><div class=repo><div><div class=n><a href='https://github.com/OCNYang/QBox'>OCNYang/QBox</a></div><div class=d>一个整合新闻、笑话、生活小工具的多模块 Android 示例应用，展示 RxJava、Retrofit、Glide 等技术的组合用法。</div></div><div class=s>★ 1383</div></div></div><div class=foot>洞见星空 · 仅供学习交流，不构成投资建议</div></div></body></html>
